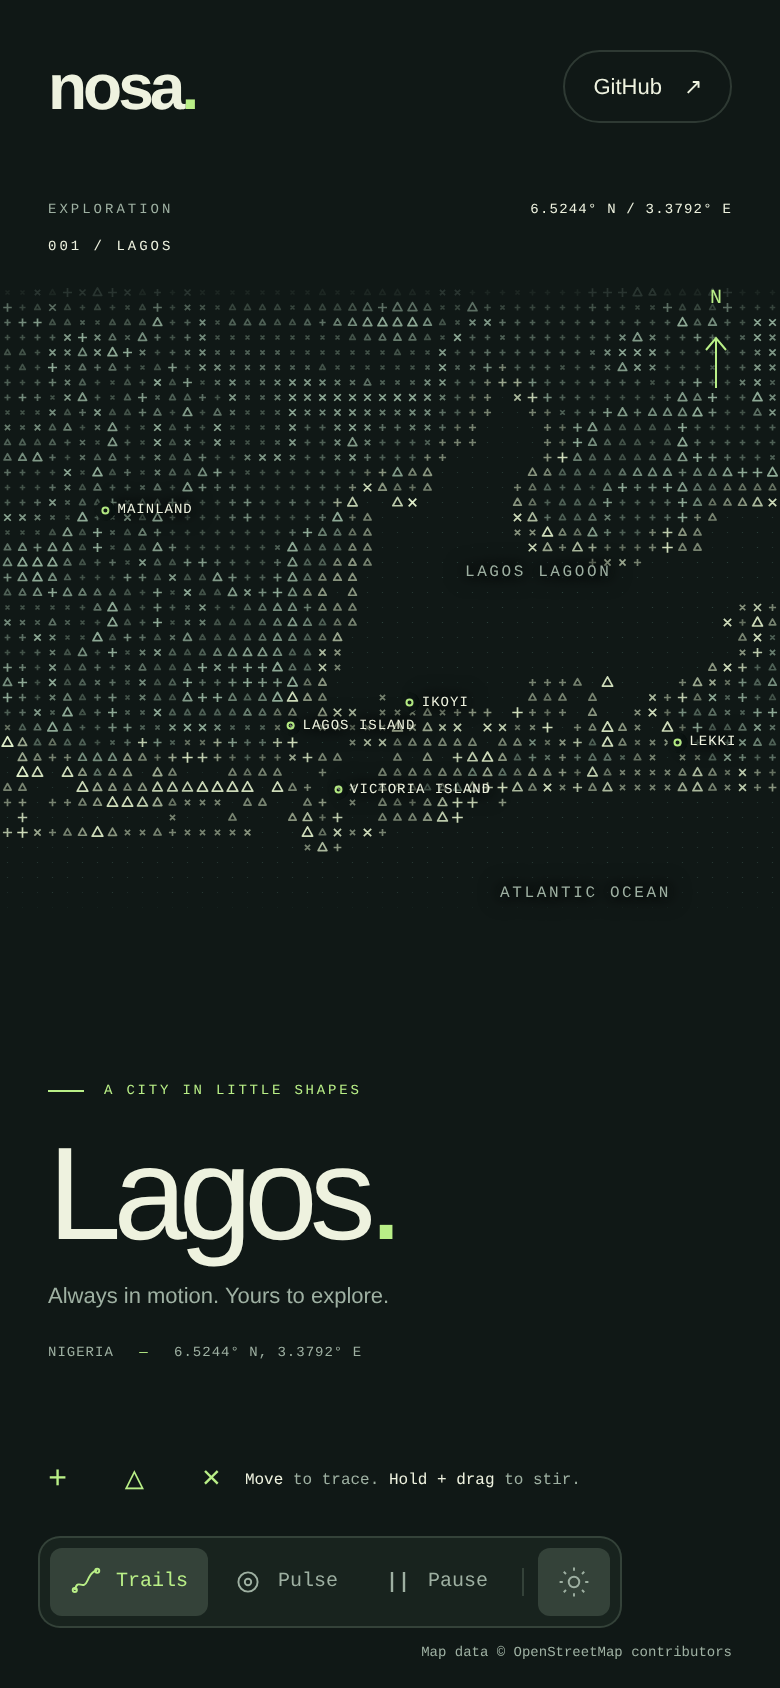
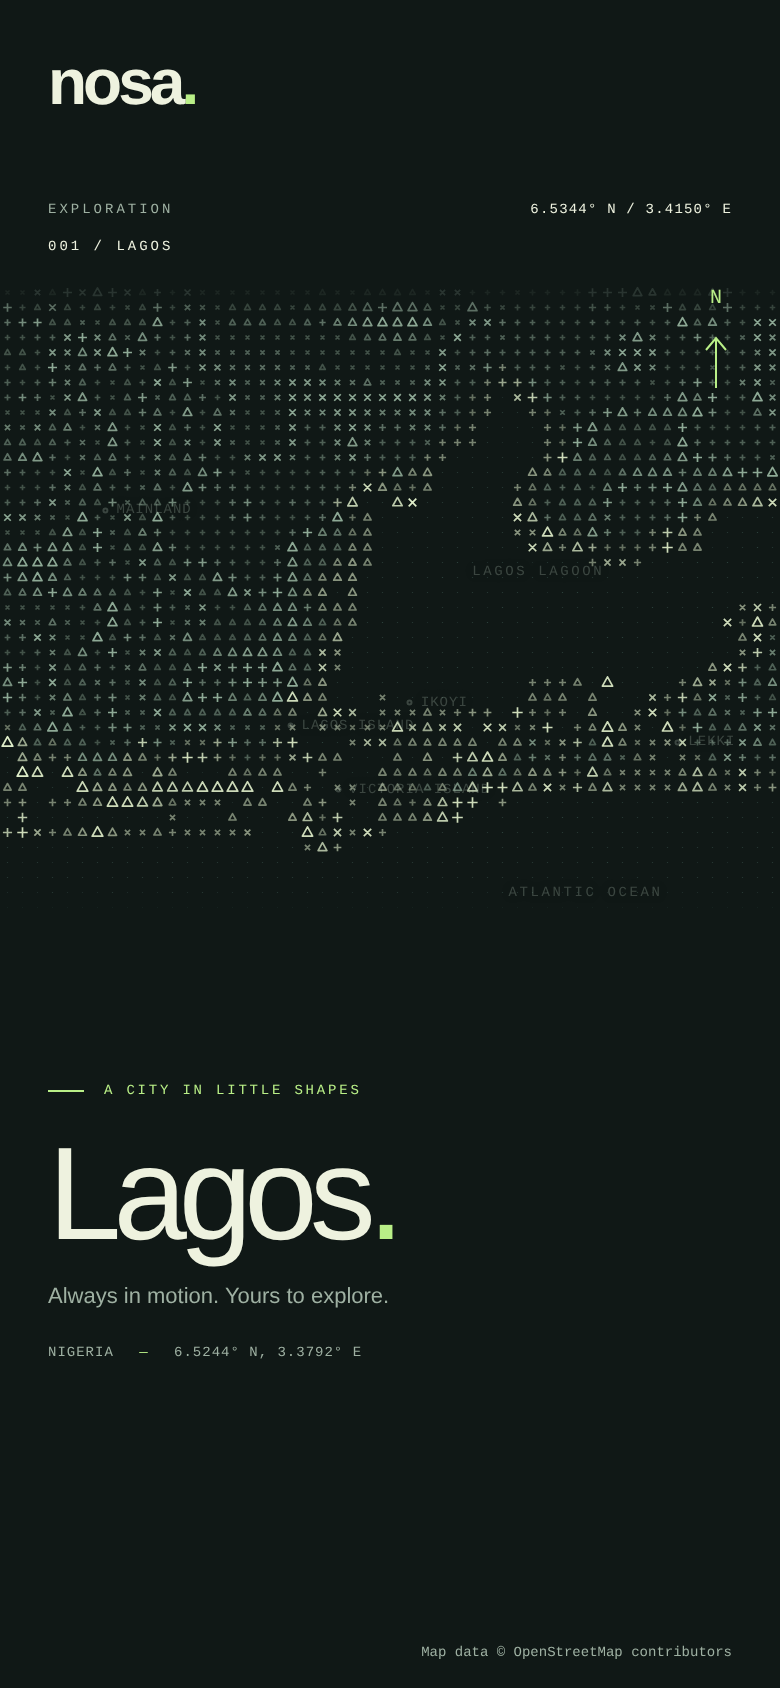
Remove annotated controls and soften geographic labels

diff --git a/src/lib/lagos-field.ts b/src/lib/lagos-field.ts
@@ -31,11 +31,6 @@ export function mountLagosField(root: HTMLElement): () => void {
   const context = canvas.getContext('2d', { alpha: false, desynchronized: true });
   if (!context) return () => {};
   const ctx = context;
-  const motionButton = root.querySelector<HTMLButtonElement>('.motion-button')!;
-  const motionText = root.querySelector<HTMLElement>('.motion-text')!;
-  const themeButton = root.querySelector<HTMLButtonElement>('.theme-button')!;
-  const pulseButton = root.querySelector<HTMLButtonElement>('.ripple-button')!;
-  const trailButton = root.querySelector<HTMLButtonElement>('.trail-button')!;
   const coordinateLabel = root.querySelector<HTMLElement>('.live-coordinates')!;
   const reducedMotion = matchMedia('(prefers-reduced-motion: reduce)');
   const events = new AbortController(), { signal } = events;
@@ -46,7 +41,6 @@ export function mountLagosField(root: HTMLElement): () => void {
   let width = 0, height = 0, dpr = 1, spacing = 10, columns = 0, rows = 0, tileColumns = 0;
   let animation = 0, lastFrame = 0, time = 0, disposed = false, lastCoordinateUpdate = 0;
   let paused = reducedMotion.matches, dark = root.dataset.theme === 'dark';
-  let trails = trailButton.getAttribute('aria-pressed') !== 'false';
   let down = false, pointerId: number | null = null, dragDistance = 0;
   let previousSample: Sample | null = null;
   let map = { left: 0, top: 0, width: 1, height: 1 };
@@ -58,8 +52,6 @@ export function mountLagosField(root: HTMLElement): () => void {
       ? ['#a7c6af', '#deedc9', '#648f88', '#b9f581', '#f2e5b7']
       : ['#38594c', '#247e6c', '#789791', '#638d21', '#a86527'];
     root.dataset.theme = dark ? 'dark' : 'light';
-    const label = `Switch to ${dark ? 'light' : 'dark'} theme`;
-    themeButton.setAttribute('aria-label', label); themeButton.title = label;
     document.querySelector('meta[name="theme-color"]')?.setAttribute('content', paper);
   }
 
@@ -180,7 +172,6 @@ export function mountLagosField(root: HTMLElement): () => void {
         p.vy = clamp(p.vy + (ry / Math.max(r, 1) * 48 + clamp(dy, -35, 35) * 2.4 + rx * .7) * push, -210, 210);
         p.spin = clamp(p.spin + push * (to.down ? 8 : 4), -14, 14); active.add(index);
       });
-    if (!trails) return;
     const count = Math.min(16, Math.floor(distance / 9));
     for (let i = 0; i < count; i++) {
       const t = (i + 1) / Math.max(1, count), jitter = hash(time + i, to.x), spread = to.down ? 17 : 7;
@@ -214,16 +205,14 @@ export function mountLagosField(root: HTMLElement): () => void {
       glyph(batches, p.shape, p.x + p.ox, p.y + p.oy, p.size * (1 + p.energy * .35), p.angle, color, clamp(p.alpha + p.energy * .7));
     }
     ctx.fillStyle = paper; ctx.fill(erase);
-    if (trails) {
-      ctx.lineCap = 'round'; ctx.strokeStyle = palette[3];
-      for (let i = 1; i < trace.length; i++) {
-        const a = trace[i - 1], b = trace[i], life = clamp(1 - (time - b.time) / 1100);
-        if (b.time - a.time > 140 || Math.hypot(b.x - a.x, b.y - a.y) > 130) continue;
-        ctx.globalAlpha = life * (b.down ? .4 : .2); ctx.lineWidth = life * (b.down ? 2 : 1);
-        ctx.beginPath(); ctx.moveTo(a.x, a.y); ctx.lineTo(b.x, b.y); ctx.stroke();
-        const steps = Math.ceil(Math.hypot(b.x - a.x, b.y - a.y) / 70);
-        for (let j = 0; j <= steps; j++) addTiles(tiles, a.x + (b.x - a.x) * j / Math.max(steps, 1), a.y + (b.y - a.y) * j / Math.max(steps, 1), 5);
-      }
+    ctx.lineCap = 'round'; ctx.strokeStyle = palette[3];
+    for (let i = 1; i < trace.length; i++) {
+      const a = trace[i - 1], b = trace[i], life = clamp(1 - (time - b.time) / 1100);
+      if (b.time - a.time > 140 || Math.hypot(b.x - a.x, b.y - a.y) > 130) continue;
+      ctx.globalAlpha = life * (b.down ? .4 : .2); ctx.lineWidth = life * (b.down ? 2 : 1);
+      ctx.beginPath(); ctx.moveTo(a.x, a.y); ctx.lineTo(b.x, b.y); ctx.stroke();
+      const steps = Math.ceil(Math.hypot(b.x - a.x, b.y - a.y) / 70);
+      for (let j = 0; j <= steps; j++) addTiles(tiles, a.x + (b.x - a.x) * j / Math.max(steps, 1), a.y + (b.y - a.y) * j / Math.max(steps, 1), 5);
     }
     for (const spark of sparks) {
       glyph(batches, spark.shape, spark.x, spark.y, spark.size * spark.life, spark.angle, 3, spark.life * .8);
@@ -241,7 +230,7 @@ export function mountLagosField(root: HTMLElement): () => void {
     for (const sample of samples) {
       sample.time = time;
       deposit(previousSample && time - previousSample.time < 180 ? previousSample : sample, sample);
-      if (trails) trace.push(sample); previousSample = sample;
+      trace.push(sample); previousSample = sample;
     }
     samples = [];
     if (trace.length > 80) trace.splice(0, trace.length - 80);
@@ -262,7 +251,7 @@ export function mountLagosField(root: HTMLElement): () => void {
       p.vx += (-p.ox * 115 - p.vx * 12) * dt; p.vy += (-p.oy * 115 - p.vy * 12) * dt;
       p.ox = clamp(p.ox + p.vx * dt, -45, 45); p.oy = clamp(p.oy + p.vy * dt, -45, 45);
       p.spin += (-p.angle * 42 - p.spin * 9) * dt; p.angle += p.spin * dt;
-      p.energy *= Math.exp(-dt * (trails ? 2.1 : 6));
+      p.energy *= Math.exp(-dt * 2.1);
       if (p.energy < .008 && Math.abs(p.ox) + Math.abs(p.oy) + Math.abs(p.vx) + Math.abs(p.vy) + Math.abs(p.angle) < .12) {
         p.ox = p.oy = p.vx = p.vy = p.angle = p.spin = p.energy = 0; active.delete(index);
       }
@@ -290,11 +279,7 @@ export function mountLagosField(root: HTMLElement): () => void {
     pointerId = null; down = false; root.dataset.drawing = 'false';
   }
   function updateMotion() {
-    root.dataset.paused = String(paused); motionButton.setAttribute('aria-pressed', String(paused));
-    const label = reducedMotion.matches ? 'Motion disabled by your device preference' : paused ? 'Resume motion' : 'Pause motion';
-    motionButton.setAttribute('aria-label', label); motionButton.title = label;
-    motionText.textContent = reducedMotion.matches ? 'Still' : paused ? 'Play' : 'Pause';
-    motionButton.disabled = reducedMotion.matches; pulseButton.disabled = paused; trailButton.disabled = paused;
+    root.dataset.paused = String(paused);
     if (paused) { cancelAnimationFrame(animation); animation = 0; endDrag(); resetField(); }
   }
 
@@ -330,13 +315,6 @@ export function mountLagosField(root: HTMLElement): () => void {
   root.addEventListener('lostpointercapture', () => { down = false; pointerId = null; root.dataset.drawing = 'false'; }, { signal });
   root.addEventListener('pointerleave', () => { if (!down) previousSample = null; }, { signal });
   window.addEventListener('blur', () => { endDrag(); previousSample = null; }, { signal });
-  motionButton.addEventListener('click', () => { paused = !paused; updateMotion(); }, { signal });
-  pulseButton.addEventListener('click', () => addPulse(width * .55, height * .47, 1.15), { signal });
-  trailButton.addEventListener('click', () => {
-    trails = !trails; trailButton.setAttribute('aria-pressed', String(trails));
-    if (!trails) { trace = []; sparks = []; wake(); }
-  }, { signal });
-  themeButton.addEventListener('click', () => { resetField(); dark = !dark; setPalette(); cacheMap(); }, { signal });
   reducedMotion.addEventListener('change', () => { paused = reducedMotion.matches; updateMotion(); }, { signal });
   document.addEventListener('visibilitychange', () => {
     if (document.hidden) { cancelAnimationFrame(animation); animation = 0; endDrag(); resetField(); }

diff --git a/README.md b/README.md
@@ -11,7 +11,7 @@ the static site in `dist/`; `bun run preview` serves that build locally.
 
 ## Background
 
-- `src/components/LagosBackground.astro`: page framing, map labels, and accessible controls.
+- `src/components/LagosBackground.astro`: page framing and subtle geographic labels.
 - `src/lib/lagos-field.ts`: batched vector glyphs, procedural relief, shoreline emphasis,
   spring-driven pointer wakes, fading traces, and click/tap pulses. The canvas ignores pointer events, so foreground links and
   controls remain usable. Add `data-no-terrain` to other foreground interaction areas.
@@ -24,12 +24,11 @@ external font, or runtime network request is required for the background.
 
 Move to leave a fine trail; hold and drag for a wider brush with stronger motion.
 Release to send out a pulse. Touch drawing is confined to the map surface, leaving
-the surrounding page available for scrolling. Trails can be switched off separately.
+the surrounding page available for scrolling.
 
-The pulse button supports keyboard interaction. Motion can be paused, respects
-the device's reduced-motion preference, and suspends while the page is hidden.
+Motion respects the device's reduced-motion preference and suspends while the page is hidden.
 The resting field is cached. A spatial grid limits interaction queries, and only
 changed canvas tiles are restored. Vector paths are grouped by color and opacity;
 frames stop when the bounded particles and pulses settle. No animation framework
 or runtime dependency is needed.
-The theme control switches between dark green and paper palettes.
+Set the background’s `data-theme` to `dark` or `light` before mounting to choose the palette.
